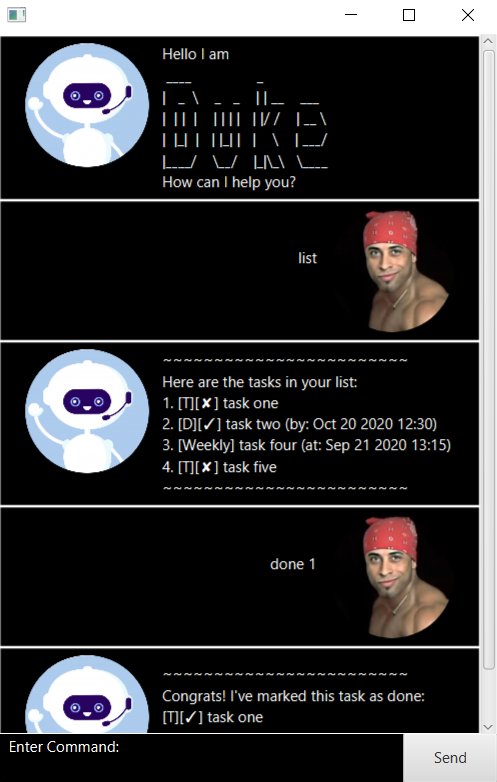
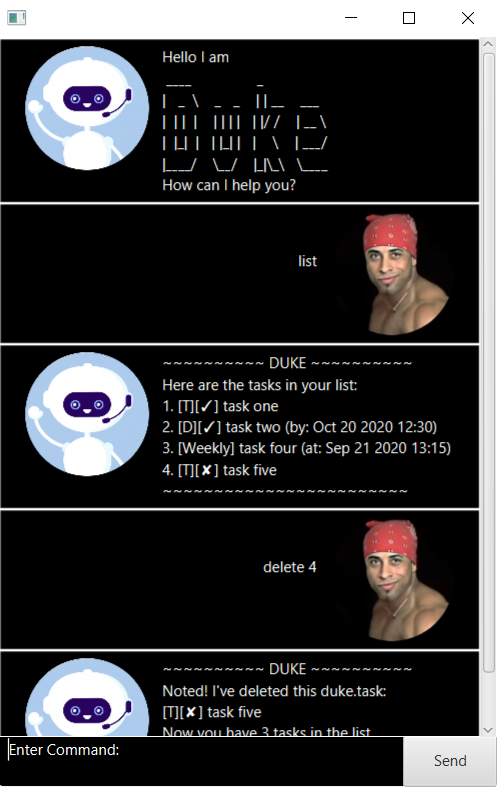
Update duke response

diff --git a/src/main/java/duke/gui/MainWindow.java b/src/main/java/duke/gui/MainWindow.java
@@ -18,7 +18,7 @@ import java.util.TimerTask;
  * Controller for MainWindow. Provides the layout for the other controls.
  */
 public class MainWindow extends AnchorPane {
-    private static final String TOPLINE = "~~~~~~~~~~~~~~~~~~~~~~~~\n";
+    private static final String TOPLINE = "~~~~~~~~~~ DUKE ~~~~~~~~~~\n";
     private static final String BOTTOMMINE = "\n~~~~~~~~~~~~~~~~~~~~~~~~";
     private static final String ERRORLINE = "~~~~~~~~~~ ERROR ~~~~~~~~~\n";
     @FXML
